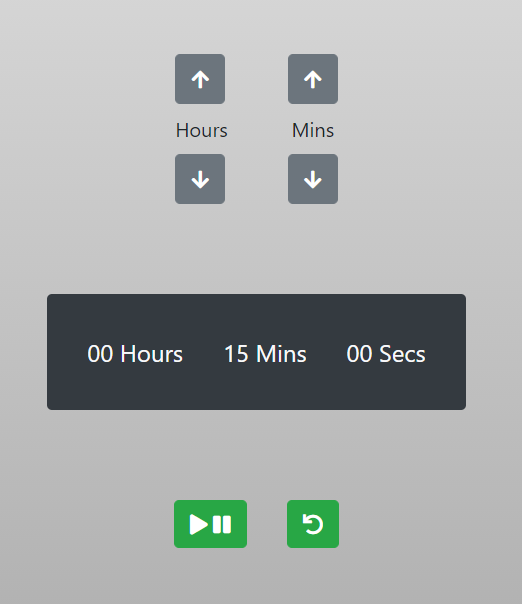
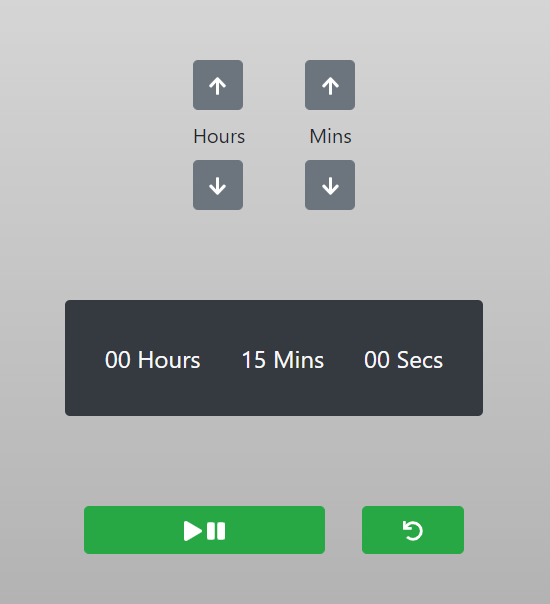
Added link to readme

diff --git a/src/App.js b/src/App.js
@@ -102,7 +102,7 @@ function App() {
       </div>
 
       <div className="row py-4 d-flex justify-content-center">
-        <div className="col-xs-8 mx-3">
+        <div className="col-8">
           <button
             className="btn btn-success btn-block"
             onClick={() => setTimerOn(!timerOn)}
@@ -110,8 +110,8 @@ function App() {
             <FontAwesomeIcon icon={faPlay} /> <FontAwesomeIcon icon={faPause} />
           </button>
         </div>
-        <div className="col-xs-4 mx-3">
-          <button className="btn btn-success" onClick={() => reset()}>
+        <div className="col-4">
+          <button className="btn btn-success btn-block" onClick={() => reset()}>
             <FontAwesomeIcon icon={faUndo} />
           </button>
         </div>

diff --git a/README.md b/README.md
@@ -2,4 +2,6 @@
 
 Icons from fontAwesome: https://github.com/FortAwesome/react-fontawesome
 
+[See the Vanilla JS version](https://github.com/DoableDanny/VanillaJS-Bootstrap-Timer)
+
 ![The app](./src/images/readme.PNG)
